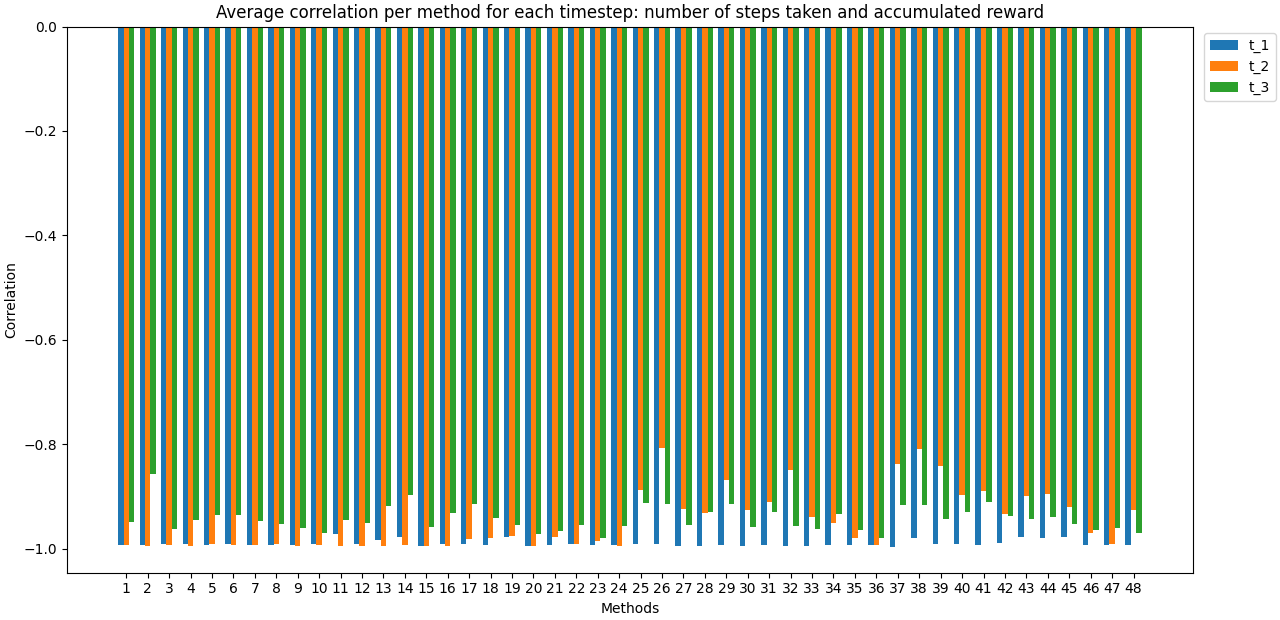
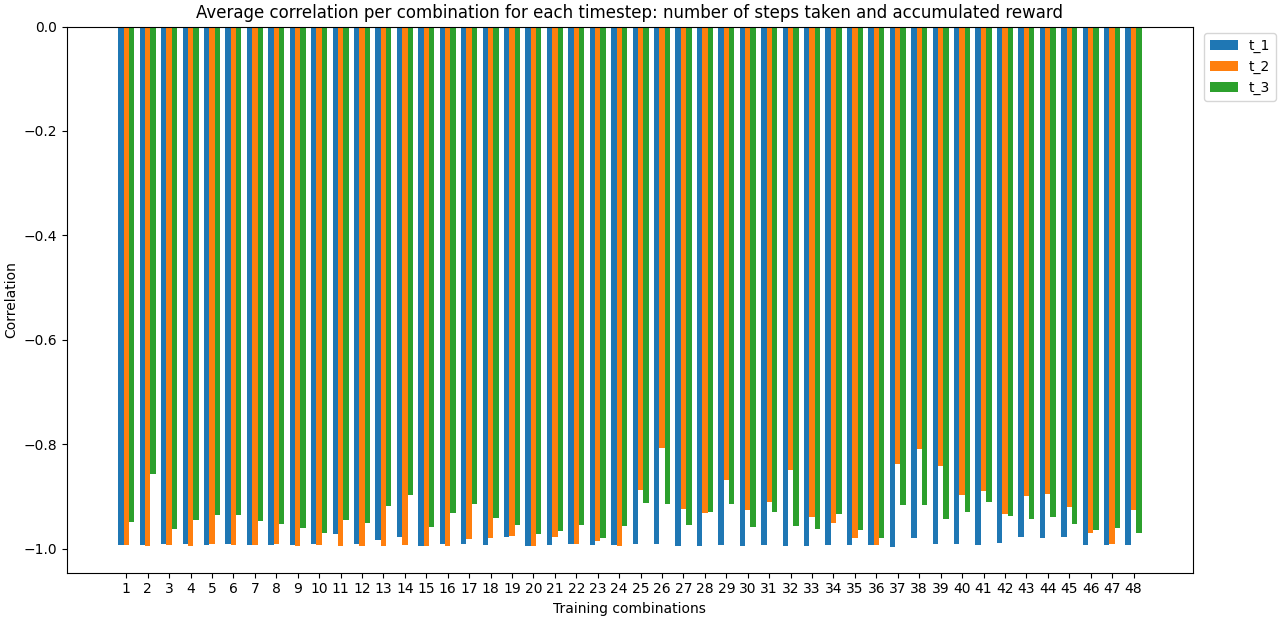
change methods to combinations in figures and code plotting

Changed region(s): [[0.1562, 0.0, 0.8438, 0.0306], [0.4375, 0.95, 0.5625, 1.0]]

diff --git a/mimic3/algos/utils.py b/mimic3/algos/utils.py
@@ -335,11 +335,11 @@ class Evaluation:
 
         # increase ylim so as labels fit
         ax.set_xticks(x_axis)
-        ax.set_xlabel('Methods')
+        ax.set_xlabel('Training combinations')
         ax.set_ylabel('Reward')
         ax.set_ylim(bottom=min(vis_summary_dict['reward_sum'])-300,top=max(vis_summary_dict['reward_sum'])+200)
         ax.set_title(
-            "Total reward per method grouped by timestep and averaged over patients")
+            "Total reward per combination grouped by timestep and averaged over patients")
         # move legent outside of box
         ax.legend(bbox_to_anchor=(1.1, 1), loc="upper right")
         plt.show()
@@ -351,10 +351,10 @@ class Evaluation:
             ax.text(method, count + 0.5, round(count), ha='center')
 
         ax.set_xticks(x_axis)
-        ax.set_xlabel('Methods')
+        ax.set_xlabel('Training combinations')
         ax.set_ylabel('Count')
         ax.set_ylim(top=max(vis_summary_dict['solutions_count'])+5)
-        ax.set_title("Number of solutions per method")
+        ax.set_title("Number of solutions per combination")
         plt.show()
 
     @classmethod
@@ -422,10 +422,10 @@ class Evaluation:
             multiplier += 1
 
         ax.set_xticks(x + width, x)
-        ax.set_xlabel('Methods')
+        ax.set_xlabel('Training combinations')
         ax.set_ylabel('Correlation')
         ax.set_title(
-            'Average correlation per method for each timestep: number of steps taken and final solutions')
+            'Average correlation per combination for each timestep: number of steps taken and final solutions')
         ax.legend(bbox_to_anchor=(1.08, 1), loc="upper right")
         plt.show()
 
@@ -441,10 +441,10 @@ class Evaluation:
             multiplier += 1
 
         ax.set_xticks(x + width, x)
-        ax.set_xlabel('Methods')
+        ax.set_xlabel('Training combinations')
         ax.set_ylabel('Correlation')
         ax.set_title(
-            'Average correlation per method for each timestep: number of steps taken and accumulated reward')
+            'Average correlation per combination for each timestep: number of steps taken and accumulated reward')
         ax.legend(bbox_to_anchor=(1.08, 1), loc="upper right")
         plt.show()
 
@@ -460,10 +460,10 @@ class Evaluation:
             multiplier += 1
 
         ax.set_xticks(x + width, x)
-        ax.set_xlabel('Methods')
+        ax.set_xlabel('Training combinations')
         ax.set_ylabel('Correlation')
         ax.set_title(
-            'Average correlation per method for each timestep: final solutions and accumulated reward')
+            'Average correlation per combination for each timestep: final solutions and accumulated reward')
         ax.legend(bbox_to_anchor=(1.08, 1), loc="upper right")
         plt.show()
 
@@ -484,9 +484,9 @@ class Evaluation:
             ax.text(method, f_score+0.005,
                     f"{round(f_score,2)}", ha='center')
 
-        ax.set_title("F-score per method")
+        ax.set_title("F-score per combination")
         ax.set_ylabel('F-score')
-        ax.set_xlabel('Methods')
+        ax.set_xlabel('Training combinations')
         plt.show()
 
     @classmethod
